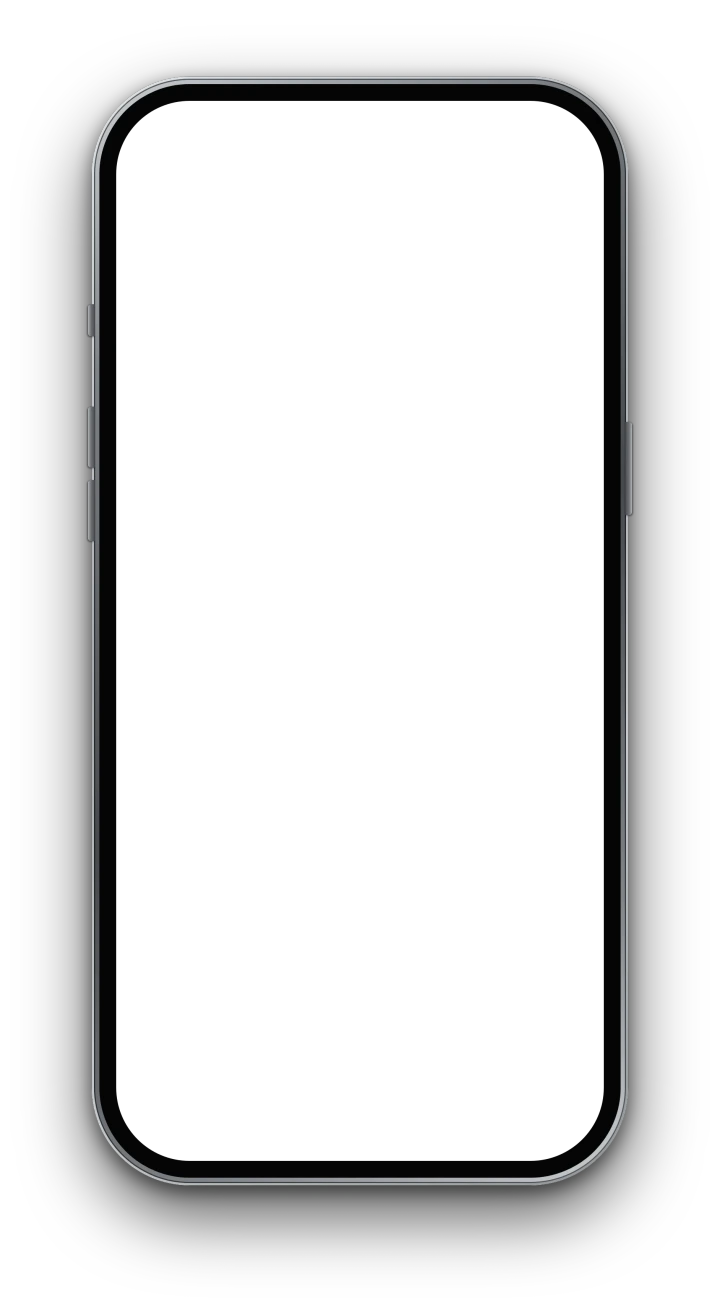
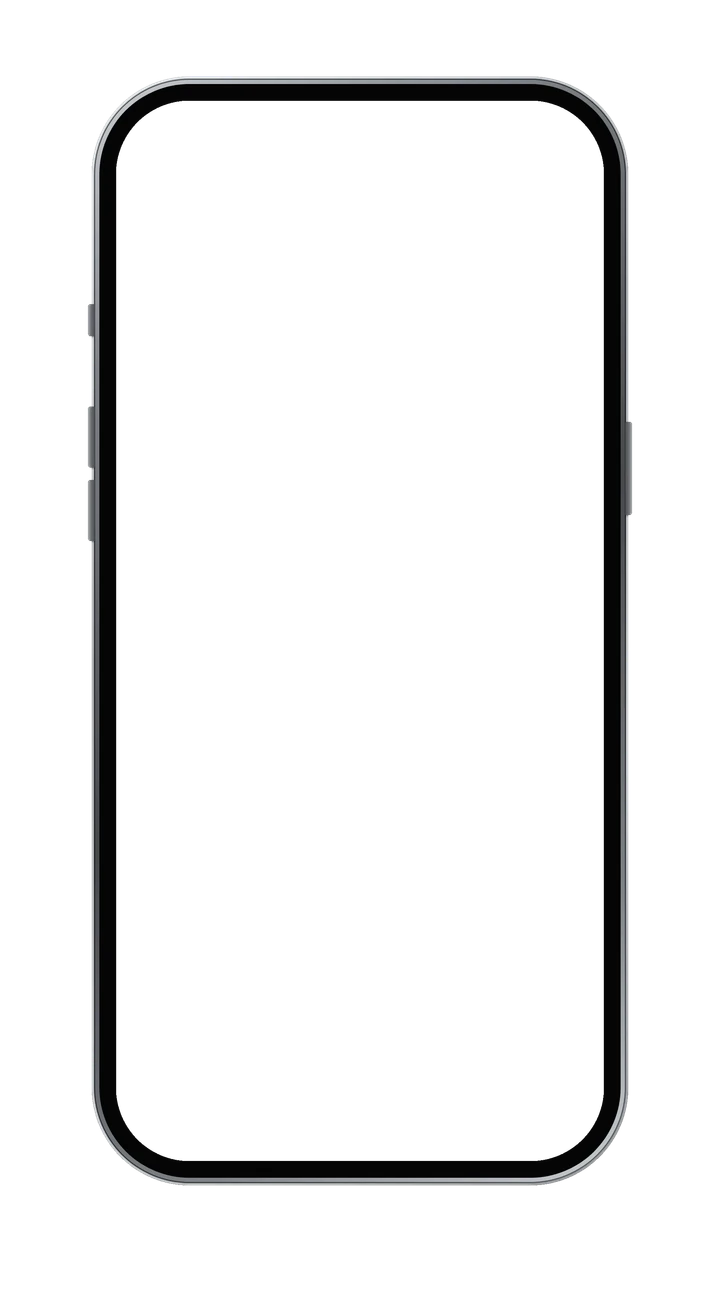
feat(funksjoner): del B steg 1 — skyggefri ramme + rik kalender i steg 2
#6 (skygge): iPhone-bilderammen (ramme/iphone-ramme.webp + -720) hadde en svart drop-shadow
BAKT inn i webp-en (ingen CSS-skygge på ks-telefonen). Fjernet ved kilden: klarte de mørke,
halvgjennomsiktige pikslene utenfor rammen (a>0 && a<250 && luminans<45) fra webp-en — den
tette metallrammen, sideknappene og den TRANSPARENTE skjermutskjæringen (a=0) er urørt.
Zoomet kanter+knapper: ingen skygge igjen, knapper intakte. Nye størrelser: 34 KB / 14 KB
(fra 87/25). Merk: prosesserte den gamle webp-en (transparent skjerm), IKKE original-PNG-en
(som har OPAK svart skjerm — ville dekket skjerminnholdet med svart). Hero-telefonens .iph-
CSS-ramme mistet sin mørke box-shadow (kun den lyse 1px-ringen igjen).

#4: #ksCal (Kjernefunksjoner steg 2 «Kalender») bytter fra den sparsomme ks-cal til SAMME rike
full-dags-kalender som hero — 10:00–15:00, 10 bookinger, datostripe med antall — via ks-cal-
strukturen (320-design + pv-scale, definert høyde). Blokkene vises (.ks-in).

QA: 320/375/390/390×600/1280/1440 — 0 overflyt, 0 JS-feil. Kalender-steget rendrer rikt.

Steg 2 (neste): #ksPhone som ENESTE telefon, fixed-driver med jevn kurve + skjerm-slide
120–240°, hero-kalender FLYTTET inn i #ksPhone, hero-ramme som usynlig plassholder. Dette steget
rører IKKE hero-reisen ennå (den er fortsatt to-telefon-versjonen fra forrige commit).

Changed region(s): [[0.0611, 0.0615, 0.9472, 0.9846], [0.2139, 0.0308, 0.7944, 0.0615]]

diff --git a/site/no/funksjoner.html b/site/no/funksjoner.html
@@ -98,7 +98,7 @@ body{background:#0a0a0a;font-family:'Inter',-apple-system,system-ui,sans-serif;c
   width:calc(702px*var(--fscale)); height:calc(1451px*var(--fscale));
   padding:calc(32px*var(--fscale)); border-radius:calc(128px*var(--fscale));
   background:linear-gradient(145deg,var(--ti-hi) 0%,var(--ti-mid) 20%,var(--ti-lo) 52%,var(--ti-mid) 80%,var(--ti-hi) 100%);
-  box-shadow:0 0 0 calc(1px*var(--fscale)) #e6eaee,0 40px 90px -30px rgba(0,0,0,.85),0 8px 24px rgba(0,0,0,.5)}
+  box-shadow:0 0 0 calc(1px*var(--fscale)) #e6eaee}   /* mørk drop-shadow fjernet (#6) — kun den lyse 1px-ringen igjen */
 .iph::before{content:"";position:absolute;inset:calc(10px*var(--fscale));
   border-radius:calc(118px*var(--fscale));background:#050505;
   box-shadow:inset 0 0 0 calc(1.5px*var(--fscale)) var(--edge-dark)}
@@ -1301,12 +1301,25 @@ document.querySelectorAll('.reveal').forEach(function(el){io.observe(el);});
   var friChip=strip.querySelector('.date-chip');
   ['11:00','11:30','13:30','14:00','14:30','15:00','15:30','16:00','16:30','17:00'].forEach(function(t){var b=document.createElement('button');b.type='button';b.className='slot-btn';b.textContent=t;if(t==='11:00')b.id='ksSlot11';$('ksSlotsGrid').appendChild(b);});
   var slot11=$('ksSlot11');
-  $('ksCalDateBtn').textContent=WD[FRI.getDay()]+' '+FRI.getDate()+'. '+MO[FRI.getMonth()];$('ksCalDayhead').textContent=WD[FRI.getDay()];
-  var cs=$('ksCalStrip');for(var j=-1;j<4;j++){var d=new Date(FRI);d.setDate(d.getDate()+j);var c=document.createElement('div');c.className='ks-chip'+(j===0?' active is-today':'');c.innerHTML='<span class="ks-chip-wd">'+WD[d.getDay()]+'</span><span class="ks-chip-d">'+d.getDate()+'</span><span class="ks-chip-count"></span>';cs.appendChild(c);}
-  var HRS=[9,10,11,12,13,14],PPM=1.8,ax=$('ksCalAxis');HRS.forEach(function(h){var e=document.createElement('div');e.className='ks-hour';e.style.height=(60*PPM)+'px';e.innerHTML='<span>'+h+'</span>';ax.appendChild(e);});
-  var body=$('ksCalBody');body.style.height=(HRS.length*60*PPM)+'px';body.style.position='relative';HRS.forEach(function(h,ix){var l=document.createElement('div');l.className='ks-hourline';l.style.top=(ix*60*PPM)+'px';body.appendChild(l);});
-  var blk=document.createElement('div');blk.className='ks-block';blk.id='ksBlock';blk.style.top=((11-9)*60*PPM)+'px';blk.style.height=(30*PPM)+'px';blk.innerHTML='<div class="ks-blk-top"><span class="ks-blk-name">Marcus</span><span class="ks-blk-time">11:00</span></div><span class="ks-blk-svc">Skinfade</span>';body.appendChild(blk);
-  var bglow=document.createElement('div');bglow.className='ks-blk-glow';bglow.id='ksBlkGlow';var _bt=(11-9)*60*PPM,_bh=30*PPM;bglow.style.left='-18px';bglow.style.right='-18px';bglow.style.top=(_bt-16)+'px';bglow.style.height=(_bh+32)+'px';body.insertBefore(bglow,blk);
+  // #ksCal (steg 2) = SAMME rike full-dags-kalender som hero: 10:00–15:00, 10 bookinger, datostripe med
+  // antall. Gjenbruker ks-cal-strukturen (320-design + pv-scale, definert høyde). Blokkene er synlige (.ks-in).
+  (function(){
+    var RSTART=600,REND=900,PPM=1.8,WDU=['SØN','MAN','TIR','ONS','TOR','FRE','LØR'],
+        RSVC={Skinfade:'#4d8bff',Saksklipp:'#3ecf7e',BarneKlipp:'#e0844a'},RDEMO={0:0,1:5,2:4,3:6,4:7,5:8,6:9},
+        RBOOK=[{n:'Mehmet D.',s:'Skinfade',a:600,b:625},{n:'Khaled N.',s:'Saksklipp',a:625,b:650},{n:'Mahmoud S.',s:'BarneKlipp',a:650,b:675},{n:'Ali F.',s:'Skinfade',a:675,b:700},{n:'Ahmed O.',s:'Skinfade',a:720,b:750},{n:'Henrik M.',s:'Saksklipp',a:750,b:780},{n:'Nabil D.',s:'BarneKlipp',a:780,b:810},{n:'Jonas B.',s:'Skinfade',a:810,b:840},{n:'Usman M.',s:'Saksklipp',a:840,b:870},{n:'Emre Y.',s:'BarneKlipp',a:870,b:900}];
+    function rp(n){return(n<10?'0':'')+n;} function rhhmm(m){return Math.floor(m/60)+':'+rp(m%60);}
+    $('ksCalDateBtn').textContent=WD[FRI.getDay()]+' '+FRI.getDate()+'. '+MO[FRI.getMonth()];
+    $('ksCalDayhead').textContent=WDU[FRI.getDay()]+' '+FRI.getDate()+'. '+MO[FRI.getMonth()].toUpperCase();
+    var cs=$('ksCalStrip');cs.innerHTML='';
+    for(var j=-1;j<=5;j++){var d=new Date(FRI);d.setDate(FRI.getDate()+j);var isSel=(j===0),cnt=(d.getDay()===0?0:(isSel?10:RDEMO[d.getDay()]));
+      var c=document.createElement('div');c.className='ks-chip'+(isSel?' active is-today':'');
+      c.innerHTML='<span class="ks-chip-wd">'+WDU[d.getDay()]+'</span><span class="ks-chip-d">'+d.getDate()+'</span><span class="ks-chip-count">'+(cnt||'')+'</span>';cs.appendChild(c);}
+    var ax=$('ksCalAxis');ax.innerHTML='';for(var m=RSTART;m<REND;m+=60){var e=document.createElement('div');e.className='ks-hour';e.style.height=(60*PPM)+'px';e.innerHTML='<span>'+rhhmm(m)+'</span>'+((m+30<REND)?'<span class="ks-half">'+rhhmm(m+30)+'</span>':'');ax.appendChild(e);}
+    var body=$('ksCalBody');body.innerHTML='';body.style.height=((REND-RSTART)*PPM)+'px';body.style.position='relative';
+    for(var mm=RSTART;mm<REND;mm+=60){var l=document.createElement('div');l.className='ks-hourline';l.style.top=((mm-RSTART)*PPM)+'px';body.appendChild(l);var hf=mm+30;if(hf<REND){var hl=document.createElement('div');hl.className='ks-halfline';hl.style.top=((hf-RSTART)*PPM)+'px';body.appendChild(hl);}}
+    RBOOK.forEach(function(bk){var d=document.createElement('div');d.className='ks-block ks-in';d.style.top=((bk.a-RSTART)*PPM)+'px';d.style.height=((bk.b-bk.a)*PPM)+'px';d.style.setProperty('--ks-blk',RSVC[bk.s]);
+      d.innerHTML='<div class="ks-blk-top"><span class="ks-blk-name">'+bk.n+'</span><span class="ks-blk-time">'+rhhmm(bk.a)+'</span></div><span class="ks-blk-svc">'+bk.s+'</span>';body.appendChild(d);});
+  })();
   $('ksLsDate').textContent=WDF[THU.getDay()]+' '+THU.getDate()+'. '+MOF[THU.getMonth()];
   $('ksLsMsg').textContent='Hei Marcus! Minner om timen din hos Grand Barber i morgen kl 11:00.';
 
